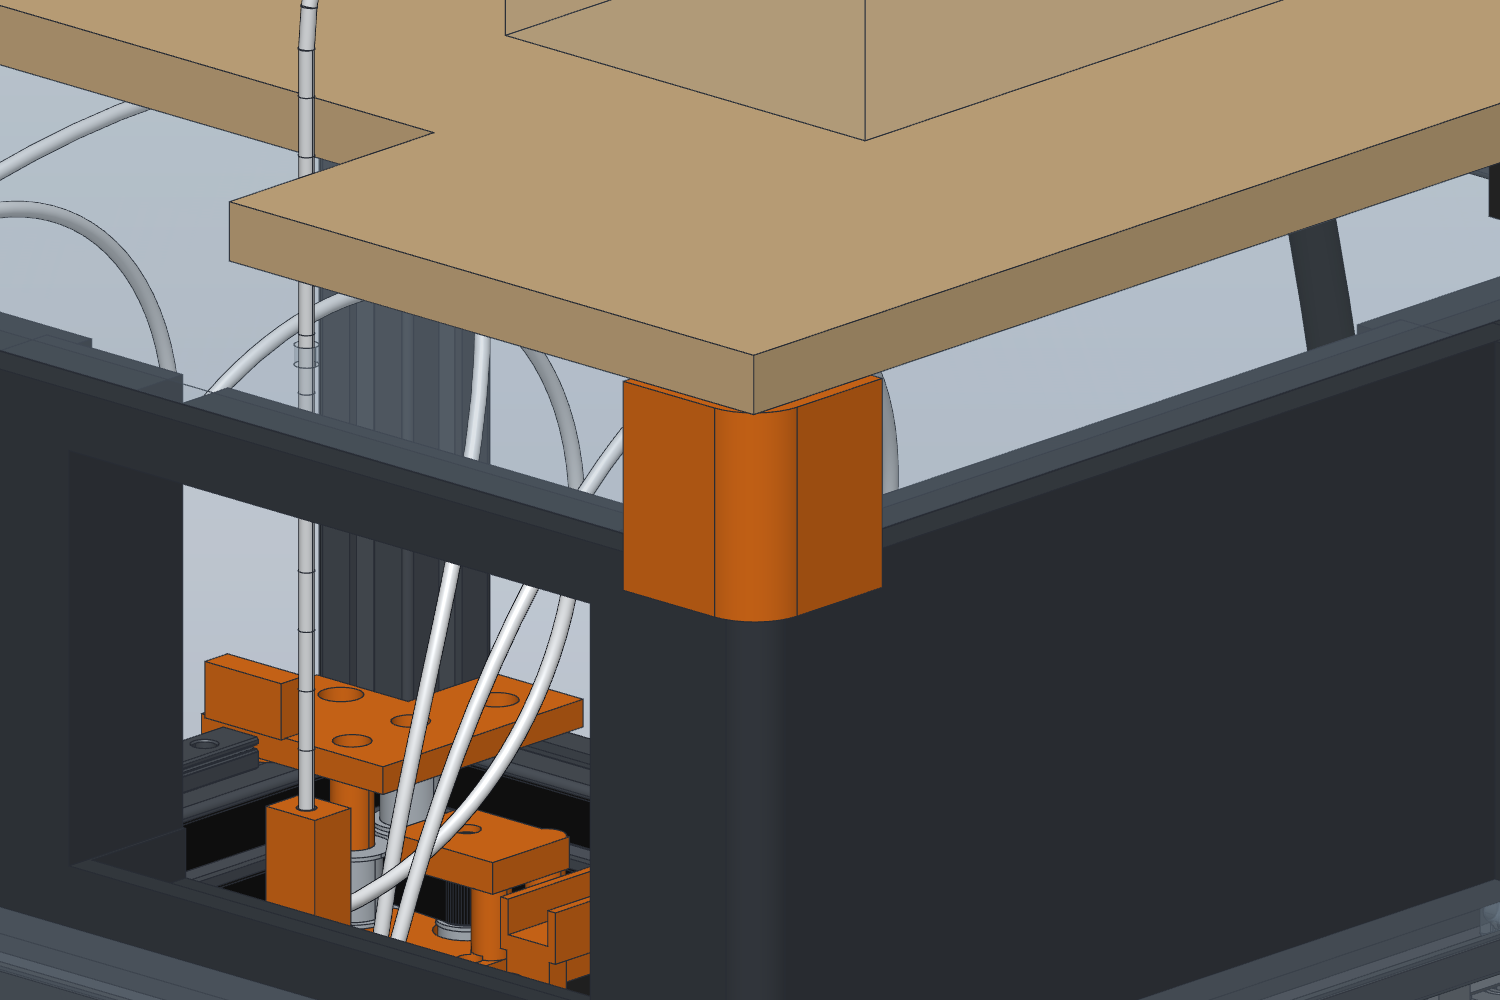
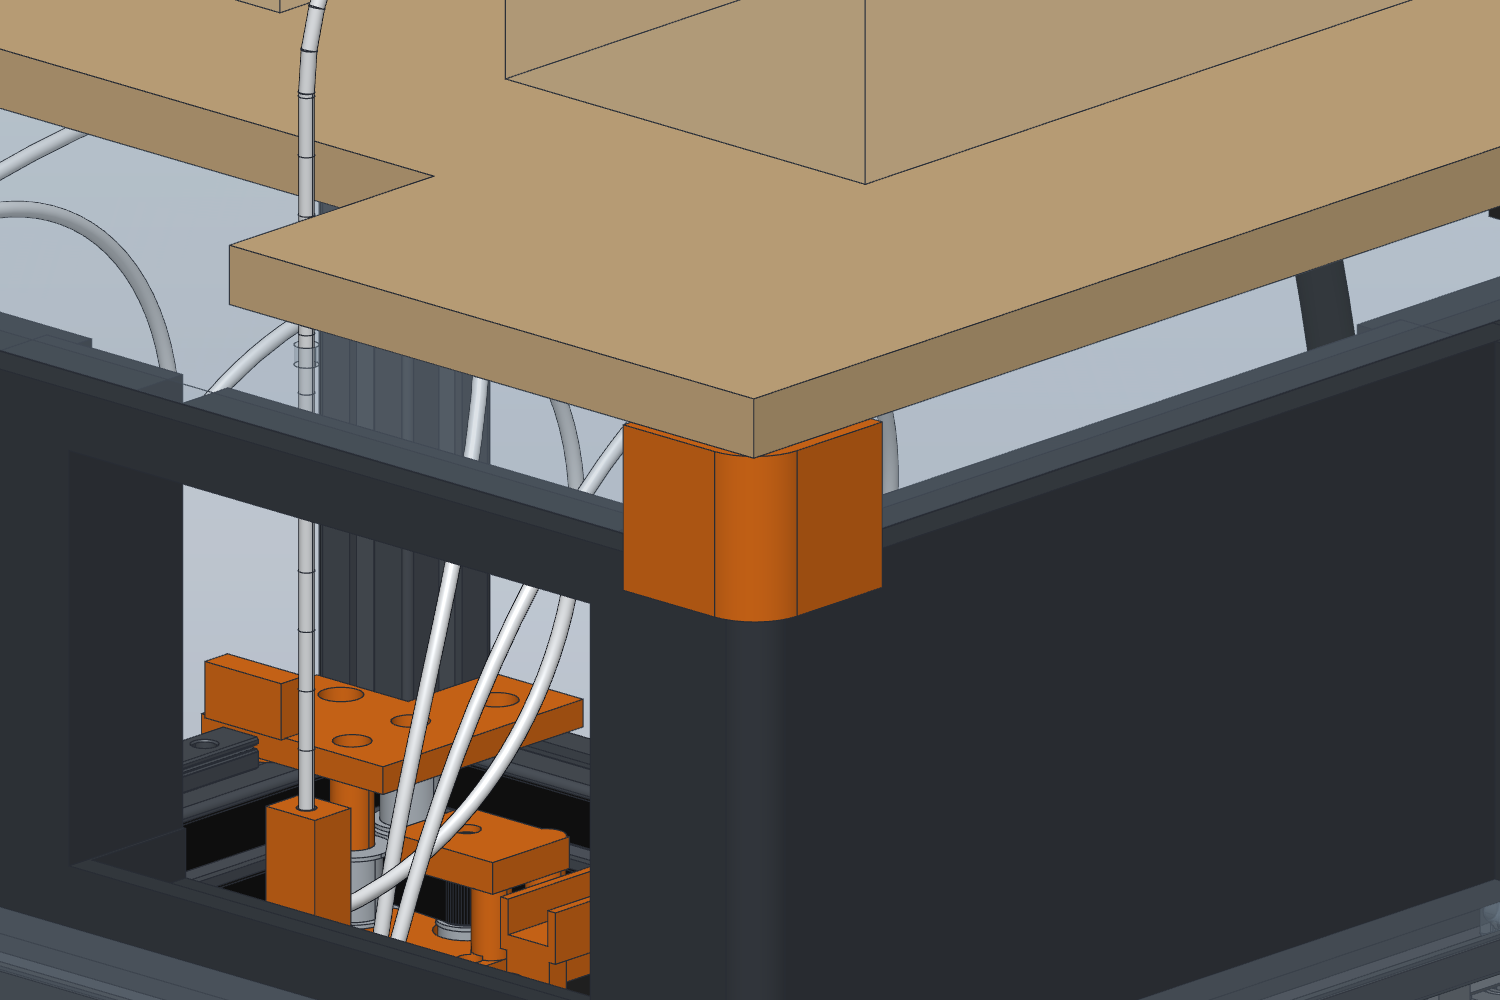
INDX: lower the spool deck 11 mm for the owner's 22 mm handles
The owner measured the lid handles at 22 mm, not the assumed stock 33 mm. The deck keeps its 6.9 mm clearance
over them, so it comes down 11 mm (underside Z 1151, 29 mm over the lid). The feet are 11 mm shorter (48.5 g
each), and the tubes rise 181 mm from the blocks. Checks, print project, assembly, pictures, README, INSTALL and
BOM updated.

diff --git a/INDX/source/vc12_params.py b/INDX/source/vc12_params.py
@@ -175,8 +175,8 @@ HAT_POCKET = (399.7, 366.7)    # lid pocket |X|, |Y| (799.4 x 733.4); its corner
 HAT_FRONT_IN_Y = -331.7        # inner face of the hat's front centre wall (the front corners' is at -336.7); the coupler
                                # blocks stop 2 mm short
 LID_TOP_Z = HAT_RIM_Z + 5.0    # the owner's lid sits on a foam gasket in the pocket, its top about 5 mm above the rim
-LID_HANDLE_TOP = LID_TOP_Z + 33.0      # TO MEASURE: the owner's printed handles, assumed as tall as the stock 33 mm
-DECK_Z = 1162.0                # deck underside: 7 mm over the handles
+LID_HANDLE_TOP = LID_TOP_Z + 22.0      # the owner's printed handles are 22 mm tall (owner)
+DECK_Z = 1151.0                # deck underside: 7 mm over the handles
 DECK_T = 15.0                  # birch plywood
 DECK_HALF = (410.0, 378.0)     # deck 820 x 756, flush with the hat's corners; its centre modules stand 4-5 mm proud
 DECK_NOTCH = (-300.0, 238.0, -306.0)   # front notch X from, to, and its back edge Y: the tubes rise through it, so
@@ -184,7 +184,7 @@ DECK_NOTCH = (-300.0, 238.0, -306.0)   # front notch X from, to, and its back ed
 FOOT_SKIRT = (1.0, 3.0, 8.0)   # foot skirt: gap to the hat's outer faces (room to place the feet by hand), wall, depth below the rim
 FOOT_SPAN = 40.0               # each foot reaches this far in from the hat's outer faces
 FOOT_LID_GAP = 2.0             # its legs stand on the rim this far outside the lid's pocket
-FEED_TOP_Z = 1197.0           # tubes run straight up to here (20 mm over the deck), then turn back to the dryer
+FEED_TOP_Z = 1186.0           # tubes run straight up to here (20 mm over the deck), then turn back to the dryer
 DOOR_SPACER = 0.0              # owner chose no door change (option 1): docks and head reach Y -365.5
 FRONT_IDLER_SLOT = 3.5         # front idler axle travel either side of nominal
 JOINT_Y = (-31.0, 32.0)        # joint top plate front/rear faces, relative to Yg (the stop faces)

diff --git a/INDX/source/vc12_bom.py b/INDX/source/vc12_bom.py
@@ -80,7 +80,7 @@ HARDWARE = [
     ("Tubes and umbilical", "PC4-M10 push-fit coupler", 5, "For 4 mm OD tube; threads into the block (tap M10 x 1 or let it cut)",
      "Any (BIQU or similar)", "One per coupler block"),
     ("Tubes and umbilical", "PTFE tube, 4 mm OD x 2 mm ID", "8 m", "One continuous tube per tool, dryer to tool: free length "
-     + TUBE_LENGTHS + " mm, plus about 70 mm through the block, 192 mm up through the lid to 20 mm over the deck, and the "
+     + TUBE_LENGTHS + " mm, plus about 70 mm through the block, 181 mm up through the lid to 20 mm over the deck, and the "
      "run over the deck to its dryer's outlet; about 1.0 m plus that run each", "Any (Capricorn or similar)",
      "Filament to each tool"),
     ("Tubes and umbilical", "Piano (music) wire, 1.0 mm", "4 m", "Cut to each tube's free length", "Any",
@@ -112,7 +112,7 @@ HARDWARE = [
      "Replaces the two 6 mm spacers at each kinematic ball"),
     ("Bed", "Longer M5 for the threaded balls", "3 if needed", "Keep at least 6 mm of thread engaged", "Any",
      "Bed balls"),
-    ("Filament", "PPS-CF", "1.4 kg", "1,408 g in Tinman's slice", "Any", "All printed parts"),
+    ("Filament", "PPS-CF", "1.4 kg", "1,371 g in Tinman's slice", "Any", "All printed parts"),
 ]
 
 REUSED = ["Frame, panels, door and electronics", "Y rails and both Y-rail MGN12C blocks",

diff --git a/INDX/source/vc12_assembly.py b/INDX/source/vc12_assembly.py
@@ -163,7 +163,7 @@ def new_items():
     lid = Part.makeBox(2 * px - 1.0, 2 * py - 1.0, 5.0, V(-px + 0.5, -py + 0.5, P.LID_TOP_Z - 5.0))
     out["LID (owner's, in the pocket on its foam), 5 tube holes"] = lid.cut(Part.makeCompound(
         [Part.makeCylinder(3.0, 7.0, V(x, P.TUBE_IN_Y, P.LID_TOP_Z - 6.0)) for x in P.DOCK_X]))
-    out["LID handles (as modelled, 33 mm)"] = TOP.handles()
+    out["LID handles (owner's, 22 mm)"] = TOP.handles()
     out["SPOOL DECK birch plywood 820 x 756 x 15"] = TOP.deck()
     for i, x in enumerate(P.DOCK_X):
         out[f"PTFE feed T{i} (block up to the dryer)"] = T.pipe(T.feed_points(x), P.TUBE["od"] / 2)

diff --git a/INDX/source/vc12_topcheck.py b/INDX/source/vc12_topcheck.py
@@ -88,7 +88,7 @@ def main():
     feet = {c: load(f"deck_foot_{c}") for c in CORNERS}
     blocks = [load(f"ptfe_coupler_block_T{i}") for i in range(P.INDX_TOOLS)]
     rep = {"note": __doc__.split("\n")[0], "hat": "owner's hat as it sits (vc12_hat.py)",
-           "assumed_until_measured": {"lid_top_above_rim_mm": round(P.LID_TOP_Z - P.HAT_RIM_Z, 2),
+           "from_owner": {"lid_top_above_rim_mm": round(P.LID_TOP_Z - P.HAT_RIM_Z, 2),
                                       "handle_height_mm": round(P.LID_HANDLE_TOP - P.LID_TOP_Z, 2)},
            "feet": {}, "feeds": {},
            "blocks_to_hat_mm": {}}

diff --git a/INDX/README.md b/INDX/README.md
@@ -83,7 +83,7 @@ Status (2026-11-03): **development design, checked in CAD only.** Nothing is pri
 - **Moved:**
   - The X-rail block now sits under the new carriage at X 0.
   - The bed is raised 20 mm on three new 32 mm spacers, which replace the six 6 mm ones. It is shown 50 mm below its top so the head and tools are visible.
-  - The stock top panel is left out. It is 800 × 736 mm, too big for the hat's 799.4 × 733.4 mm pocket. The owner's own lid is shown in its place, 5 mm thick with its top 5 mm above the hat's rim, with a 6 mm hole over each coupler block. Its two handles are drawn as stock-size blocks (33 mm tall).
+  - The stock top panel is left out. It is 800 × 736 mm, too big for the hat's 799.4 × 733.4 mm pocket. The owner's own lid is shown in its place, 5 mm thick with its top 5 mm above the hat's rim, with a 6 mm hole over each coupler block. Its two handles are drawn as 22 mm blocks, the owner's measured height, where the stock handles go.
 - **Added:**
   - the PPS-CF parts;
   - idlers, pulleys, bearings and the two motors in their new places;
@@ -234,12 +234,12 @@ The dryers sit on a deck above the top hat. Pictures: `images/spool_deck.png`, `
 
 **Why it stands on the hat's corners.** The deck needs to be carried by the frame, not the lid. The hat's corners stand right on the corner uprights, so the deck's feet stand on them. A separate frame would mean cutting 30 mm holes through all four hat corners, or bolting posts through the side panels outside the hat.
 
-- **Feet** (`deck_foot_FR`/`FL`/`RR`/`RL`, all the same part, 61 g each).
+- **Feet** (`deck_foot_FR`/`FL`/`RR`/`RL`, all the same part, 48.5 g each).
   - Each stands on the rim at one corner, with a skirt that drops 8 mm over the hat's rounded corner (1 mm gap) to locate it.
   - Its legs stand 2 mm outside the lid's pocket and it is open over the lid, so it touches only the rim even though the lid stands above it.
   - Two 4 × 16 mm wood screws hold the deck to its top plate.
   - At the front right corner, the hat is hollow at the top for the display cables. The foot's legs stand right over that corner's 6 and 7.5 mm outer walls, which carry the load down to the solid part below.
-- **Deck.** 15 mm birch plywood, 820 × 756 mm, flush with the hat's corners. Its underside is 40 mm above the lid's top, an air gap that keeps the chamber's heat (65 °C for PPS-CF) off the dryers. It clears the lid's two handles by 6.9 mm if they are stock height (33 mm); taller handles would need taller feet.
+- **Deck.** 15 mm birch plywood, 820 × 756 mm, flush with the hat's corners. Its underside is 29 mm above the lid's top, an air gap that keeps the chamber's heat (65 °C for PPS-CF) off the dryers. It clears the lid's two 22 mm handles by 6.9 mm.
 - **Notch.** A 538 × 72 mm notch in the front edge lets the tubes rise past the deck. So the deck lifts off without unthreading them, and taking the lid off means lifting the dryers and deck, then the lid over the tube ends.
 - **Tubes.** Each one rises straight from its block's channel (Z 1005) through a 6 mm hole in the lid, 42.7 mm behind the pocket's front edge, to 20 mm above the deck. It then bends back over the notch's edge at 60 mm radius or more and ends just behind the notch. That is one continuous tube from the tool to the dryer; the only bend below the deck is the block's own 60° turn.
 - **Dryers.** A Sunlu S4 (four spools) and a single-spool dryer beside it, shown as outlines of a Sunlu S4 lengthways for T0–T3 and an S2 side-on at the right end for T4. They use about 634 of the deck's 820 mm width. Where they stand and how each tube reaches its outlet is the owner's call; keep each bend at 60 mm radius or more.
@@ -250,7 +250,7 @@ The dryers sit on a deck above the top hat. Pictures: `images/spool_deck.png`, `
 
 **Checks** (`source/vc12_topcheck.py`, `checks/top_report.json`), against the owner's hat file:
 - The feet sit on the rim with no overlap, 2.0 mm clear of the lid, 631 mm² of bearing each.
-- The deck clears the handles by 6.9 mm (stock height), the lid by 39.9 mm and the hat by 44.9 mm.
+- The deck clears the handles by 6.9 mm, the lid by 28.9 mm and the hat by 33.9 mm.
 - Each tube's run clears the hat by 5.7 mm (T2, T3, behind the front centre), 6.5 mm (T1) and 10.7 mm (T0, T4). It clears its lid hole by 1 mm all round, the deck's notch by 16 mm and the other blocks by 109 mm.
 - The coupler blocks are cut back above the frame top to clear the hat's front centre wall by 2 mm, and its lower inner edge where it overhangs the top 3030. The closest point is the mounting plate, 1.0 mm under that overhang.
 - **Load:** with the S4 and S2 and five full 1 kg spools (12.25 kg), the deck (5.9 kg) and feet put about 45 N on each corner, 0.07 MPa on the rim. A 15 mm birch deck on four corners sags about 2 mm in the middle.
@@ -279,13 +279,13 @@ The purge-station parts (two rail brackets, five cradles, five buckets) are list
 
 | Plate | Parts | Time | PPS-CF |
 |---|---|---|---|
-| 1 Carriage, joints, front idlers | carriage, 4 clamp caps, joint L/R, front idler L/R | 15.2 h | 295 g |
-| 2 Rear corners | base L/R, top L/R | 11.4 h | 223 g |
-| 3 Purge cradles and rail brackets | station cradles T0–T4, dock brackets L/R, station brackets L/R | 16.3 h | 322 g |
+| 1 Carriage, joints, front idlers | carriage, 4 clamp caps, joint L/R, front idler L/R | 15.2 h | 296 g |
+| 2 Rear corners | base L/R, top L/R | 11.3 h | 222 g |
+| 3 Purge cradles and rail brackets | station cradles T0–T4, dock brackets L/R, station brackets L/R | 16.3 h | 321 g |
 | 4 Purge buckets | purge buckets T0–T4 | 13.7 h | 241 g |
-| 5 PTFE coupler blocks and umbilical saddle | coupler blocks T0–T4, saddle, swivel | 7.1 h | 138 g |
-| 6 Spool deck feet | deck feet ×4 | 8.3 h | 190 g |
-| **Total** | 38 parts | **72.0 h** | **1,408 g** |
+| 5 PTFE coupler blocks and umbilical saddle | coupler blocks T0–T4, saddle, swivel | 7.1 h | 139 g |
+| 6 Spool deck feet | deck feet ×4 | 6.7 h | 152 g |
+| **Total** | 38 parts | **70.3 h** | **1,371 g** |
 
 - **Test slice.** No warnings and no path conflicts. Every plate starts with `PRINT_START BED=110 HOTEND=320 CHAMBER=65`.
 - **Orientation.** Each part lies on the face listed in `print/orientation.json`.
@@ -378,5 +378,4 @@ The full purchase list, with screw lengths worked out from each part's clamping 
 11. **Spool deck on the hat.**
     - **Load on the corners:** the printed hat corners carry the deck and dryers, about 45 N each. The hat is PET-CF, which stays stiff at the chamber's 65 °C.
     - **Front right corner:** it is hollow at the top for the display cables. The foot's legs stand over its outer walls.
-    - **Handles:** the lid's handles are assumed to be stock height (33 mm). If they stand taller, the deck needs taller feet.
-    - **Loading spools:** the deck's top is about 1.17 m above whatever the printer stands on, so loading spools needs a step stool.
+    - **Loading spools:** the deck's top is about 1.16 m above whatever the printer stands on, so loading spools needs a step stool.

diff --git a/INDX/BOM.md b/INDX/BOM.md
@@ -2,7 +2,7 @@
 
 Nothing on this list has been ordered or fitted yet. `BOM.csv` holds the same list for a spreadsheet.
 
-## Printed parts (38 parts, PPS-CF, about 1,503 g modelled)
+## Printed parts (38 parts, PPS-CF, about 1,453 g modelled)
 
 All of them are in the Tinman project `print/VC41_CoreXY12_INDX_PPSCF_QidiPlus4_06.3mf`.
 
@@ -42,10 +42,10 @@ All of them are in the Tinman project `print/VC41_CoreXY12_INDX_PPSCF_QidiPlus4_
 | ptfe_coupler_block_T4 | 1 | 38 x 59.6 x 47.2 | 5 | PTFE coupler blocks on the front top 3030, one above each dock; T0's turns the tube 20 deg toward the middle, T4's 15 deg; cut back 2 mm clear of the top hat's front centre wall; 26 g; tree supports |
 | umbilical_saddle | 1 | 32 x 70.2 x 58.9 | 5 | Umbilical saddle on the INDX PCB cover, with a clevis at its tail; 15 g |
 | umbilical_swivel | 1 | 12 x 30 x 10.4 | 5 | Umbilical swivel: turns on the saddle's pin, so the umbilical lies back near the front and stands up near the back; 4 g |
-| deck_foot_FR | 1 | 44 x 44 x 52.9 | 6 | Spool deck feet, one on each top-hat corner (all four the same part); the deck screws on; 61 g |
-| deck_foot_FL | 1 | 44 x 44 x 52.9 | 6 | Spool deck feet, one on each top-hat corner (all four the same part); the deck screws on; 61 g |
-| deck_foot_RR | 1 | 44 x 44 x 52.9 | 6 | Spool deck feet, one on each top-hat corner (all four the same part); the deck screws on; 61 g |
-| deck_foot_RL | 1 | 44 x 44 x 52.9 | 6 | Spool deck feet, one on each top-hat corner (all four the same part); the deck screws on; 61 g |
+| deck_foot_FR | 1 | 44 x 44 x 41.9 | 6 | Spool deck feet, one on each top-hat corner (all four the same part); the deck screws on; 49 g |
+| deck_foot_FL | 1 | 44 x 44 x 41.9 | 6 | Spool deck feet, one on each top-hat corner (all four the same part); the deck screws on; 49 g |
+| deck_foot_RR | 1 | 44 x 44 x 41.9 | 6 | Spool deck feet, one on each top-hat corner (all four the same part); the deck screws on; 49 g |
+| deck_foot_RL | 1 | 44 x 44 x 41.9 | 6 | Spool deck feet, one on each top-hat corner (all four the same part); the deck screws on; 49 g |
 
 ## Motion
 
@@ -101,7 +101,7 @@ All of them are in the Tinman project `print/VC41_CoreXY12_INDX_PPSCF_QidiPlus4_
 | Qty | Item | Specification | Source | Used for |
 |---|---|---|---|---|
 | 5 | PC4-M10 push-fit coupler | For 4 mm OD tube; threads into the block (tap M10 x 1 or let it cut) | Any (BIQU or similar) | One per coupler block |
-| 8 m | PTFE tube, 4 mm OD x 2 mm ID | One continuous tube per tool, dryer to tool: free length T0 791, T1 717, T2 649, T3 680, T4 750 mm, plus about 70 mm through the block, 192 mm up through the lid to 20 mm over the deck, and the run over the deck to its dryer's outlet; about 1.0 m plus that run each | Any (Capricorn or similar) | Filament to each tool |
+| 8 m | PTFE tube, 4 mm OD x 2 mm ID | One continuous tube per tool, dryer to tool: free length T0 791, T1 717, T2 649, T3 680, T4 750 mm, plus about 70 mm through the block, 181 mm up through the lid to 20 mm over the deck, and the run over the deck to its dryer's outlet; about 1.0 m plus that run each | Any (Capricorn or similar) | Filament to each tool |
 | 4 m | Piano (music) wire, 1.0 mm | Cut to each tube's free length | Any | Stiffener taped along each free tube so parked tubes hold their arch and the active one swings clear |
 | 1 | PTFE or polyimide tape, or 6 mm heat-shrink | — | Any | Holding the piano wire to the tubes |
 | 1 | Umbilical: piano wire 1.2 mm + loom | Reuse the stock V-Core 4 umbilical; free length 687 mm from the back-middle mount to the saddle | Stock (Rat Rig) | INDX Link cable to the head |
@@ -141,7 +141,7 @@ All of them are in the Tinman project `print/VC41_CoreXY12_INDX_PPSCF_QidiPlus4_
 
 | Qty | Item | Specification | Source | Used for |
 |---|---|---|---|---|
-| 1.4 kg | PPS-CF | 1,408 g in Tinman's slice | Any | All printed parts |
+| 1.4 kg | PPS-CF | 1,371 g in Tinman's slice | Any | All printed parts |
 
 ## Reused from the printer
 

diff --git a/INDX/INSTALL.md b/INDX/INSTALL.md
@@ -15,12 +15,12 @@ Parts and hardware are in `BOM.md`. The printed parts are all in the Tinman proj
 
    | Plate | Parts | Time | PPS-CF |
    |---|---|---|---|
-   | 1 | carriage, 4 clamp caps, joints, front idlers | 15.2 h | 295 g |
-   | 2 | rear corner bases and tops | 11.4 h | 223 g |
-   | 3 | five cradles, dock and station rail brackets | 16.3 h | 322 g |
+   | 1 | carriage, 4 clamp caps, joints, front idlers | 15.2 h | 296 g |
+   | 2 | rear corner bases and tops | 11.3 h | 222 g |
+   | 3 | five cradles, dock and station rail brackets | 16.3 h | 321 g |
    | 4 | five buckets | 13.7 h | 241 g |
-   | 5 | five PTFE coupler blocks, umbilical saddle and swivel | 7.1 h | 138 g |
-   | 6 | four spool deck feet | 8.3 h | 190 g |
+   | 5 | five PTFE coupler blocks, umbilical saddle and swivel | 7.1 h | 139 g |
+   | 6 | four spool deck feet | 6.7 h | 152 g |
 
    Times and weights are from Tinman's slice.
 2. Remove the supports. On the left rear-corner top, clean up the feet before they sit on the 3030s.
@@ -172,12 +172,11 @@ The tubes come in at the top front, directly above the docks, and hang free to t
    - Every tube top should stay below the top hat's lid.
 
 ## 11. Spool deck and dryers
-The dryers sit on a plywood deck above the top hat, on four printed feet. Each foot stands on the hat's rim at one corner, straight over a frame upright, so the weight goes into the frame and nothing rests on the lid. The deck's underside sits 40 mm above the lid's top. That keeps the chamber's heat off the dryers and clears stock-height (33 mm) handles by 7 mm. The tubes rise straight out of their blocks, through five holes in the lid and up through a notch in the deck's front edge.
+The dryers sit on a plywood deck above the top hat, on four printed feet. Each foot stands on the hat's rim at one corner, straight over a frame upright, so the weight goes into the frame and nothing rests on the lid. The deck's underside sits 29 mm above the lid's top. That keeps the chamber's heat off the dryers and clears the lid's 22 mm handles by 7 mm. The tubes rise straight out of their blocks, through five holes in the lid and up through a notch in the deck's front edge.
 
 1. **Lid holes.** Take the lid out of the hat.
    - Mark five holes 43 mm from its front edge, at 125, 247, 369, 491 and 613 mm from its left edge (seen from the front).
    - Drill them 3 mm first. Put the lid back in its pocket and look down through each hole: it should sit straight above its block's channel. Then open the holes to 6 mm and deburr them. Use a bit suited to the panel and back it with scrap.
-   - Check the handles: with the lid in place, they should stand no more than 33 mm above it. If they are taller, the deck needs taller feet, or the handles need moving off the deck's corners.
 2. **Deck.** Cut 820 × 756 mm from 15 mm birch plywood.
    - Cut a notch in one long edge, which becomes the front: 538 mm wide and 72 mm deep, starting 110 mm from the left end (so 172 mm from the right end).
    - Round the notch's back edge, where the tubes bend over it. Seal or paint the deck.
